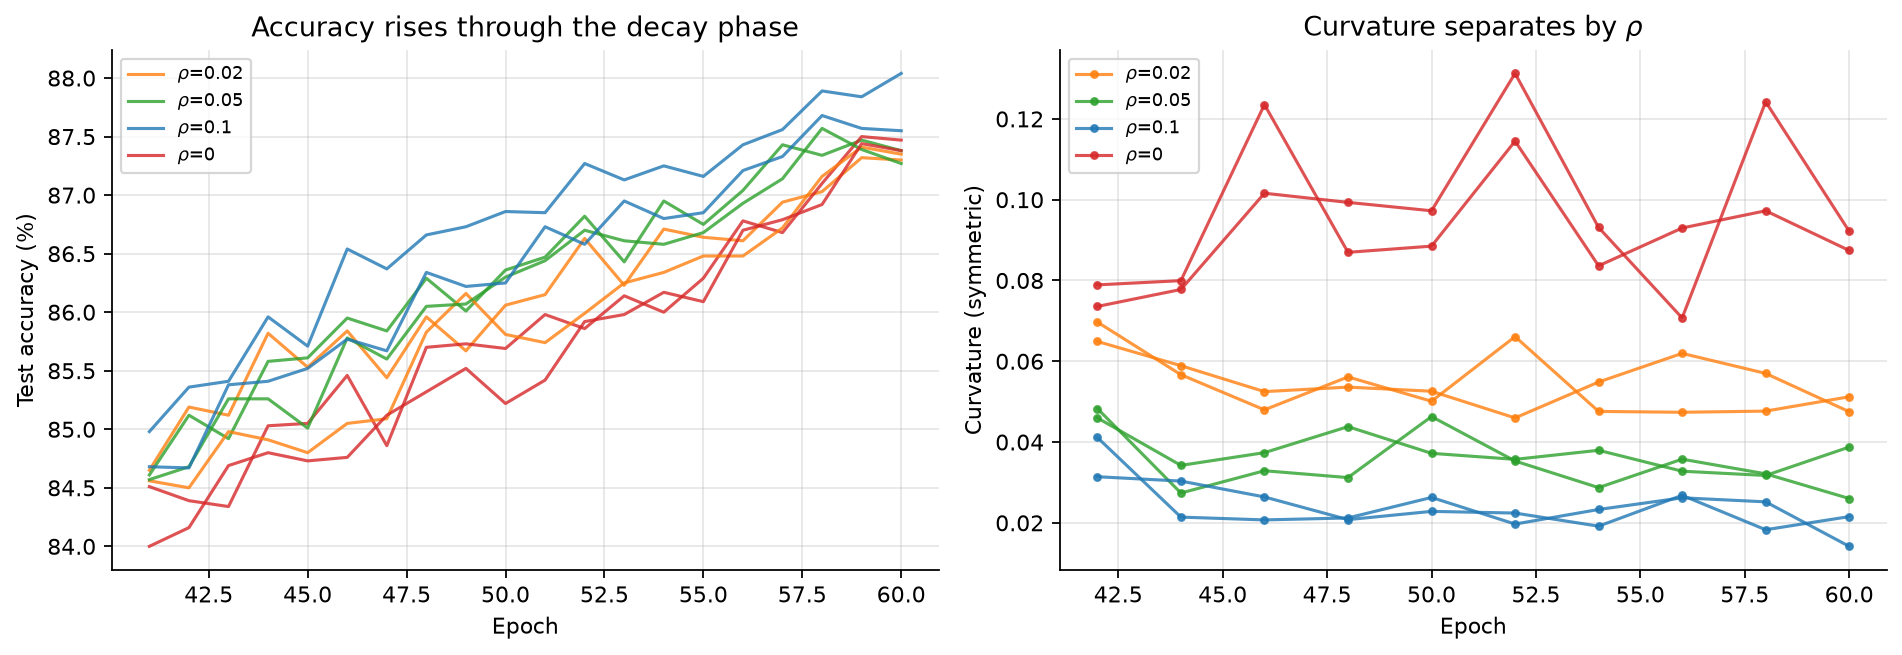
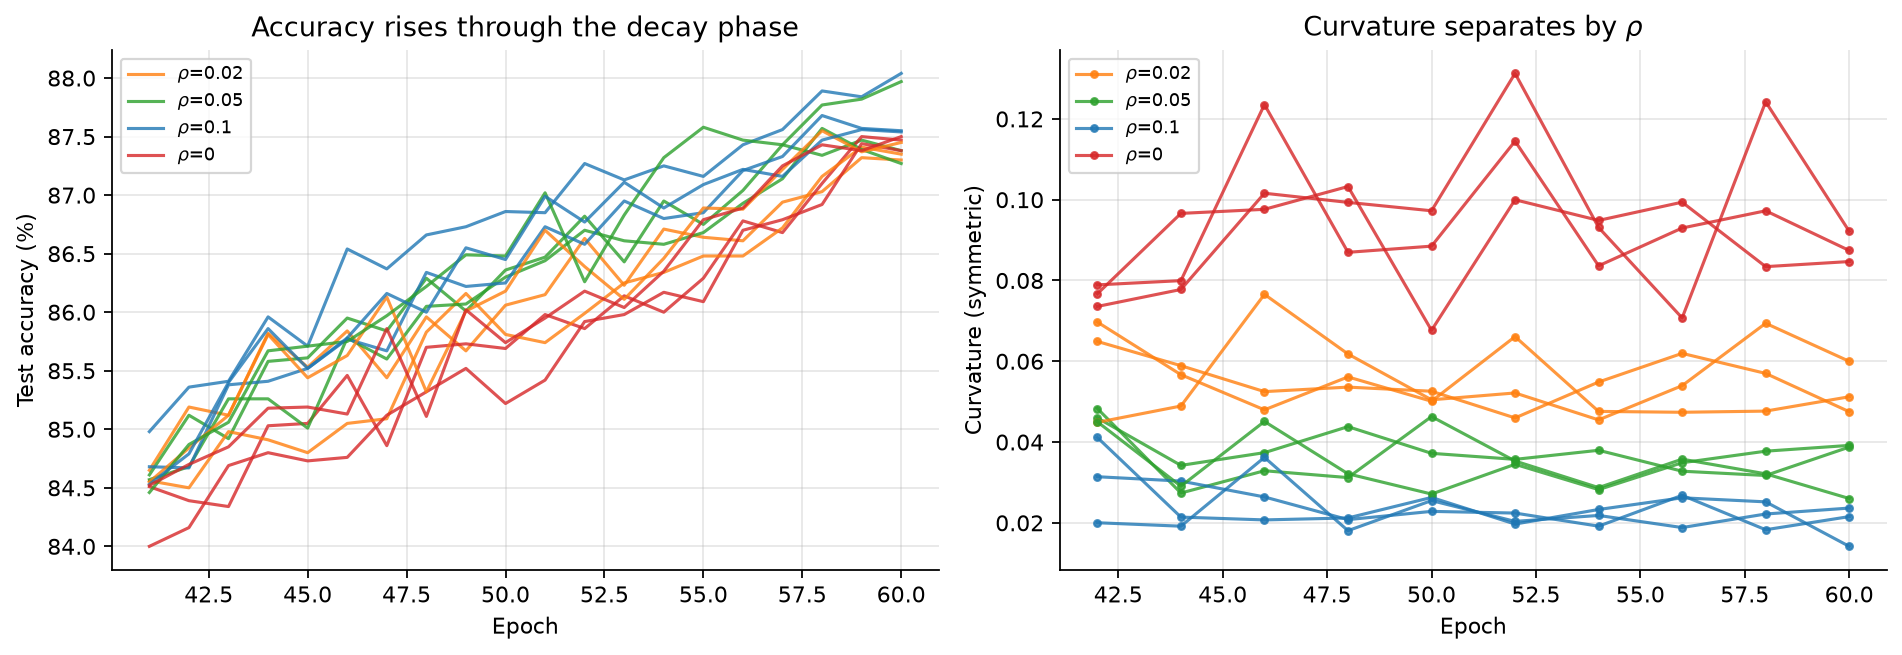
[ADD] 3시드 결과 그림

diff --git a/scripts/make_figures.py b/scripts/make_figures.py
@@ -93,7 +93,7 @@ def fig_rho_sweep(rows, plt):
         return None
     n = len(by[rhos[0]]['sym'])
 
-    fig, ax = plt.subplots(1, 2, figsize=(11, 4.2))
+    fig, ax = plt.subplots(1, 3, figsize=(15, 4.2))
     ax[0].errorbar(rhos, [st.mean(by[r]['sym']) for r in rhos],
                    yerr=[sd(by[r]['sym']) for r in rhos],
                    marker='o', ms=7, capsize=5, lw=2, color='#7048b6')
@@ -107,6 +107,24 @@ def fig_rho_sweep(rows, plt):
     ax[1].set_xlabel('SAM radius  $\\rho$'); ax[1].set_ylabel('Test accuracy (%)')
     ax[1].set_title('Generalization — does it follow?')
     ax[1].grid(alpha=.3)
+
+    # (c) 같은 축에서 상대 변화로 비교한다.
+    # 왼쪽 두 패널은 축 범위가 달라 "곡률 4.5배 감소 vs 정확도 0.3% 변화" 라는
+    # 크기 차이가 보이지 않는다. sam_off 기준 % 변화로 겹쳐 그리면 그게 드러난다.
+    base_s, base_a = st.mean(by[0.0]['sym']), st.mean(by[0.0]['acc'])
+    rel_s = [(st.mean(by[r]['sym']) / base_s - 1) * 100 for r in rhos]
+    rel_a = [(st.mean(by[r]['acc']) / base_a - 1) * 100 for r in rhos]
+    ax[2].plot(rhos, rel_s, 'o-', ms=7, lw=2, color='#7048b6', label='curvature')
+    ax[2].plot(rhos, rel_a, 's-', ms=7, lw=2, color='#1f77b4', label='test accuracy')
+    ax[2].axhline(0, color='k', lw=.8)
+    ax[2].set_xlabel('SAM radius  $\\rho$')
+    ax[2].set_ylabel('change vs $\\rho{=}0$  (%)')
+    ax[2].set_title('Same axis: the gap is the point')
+    ax[2].legend(fontsize=9); ax[2].grid(alpha=.3)
+    ax[2].annotate(f'{rel_s[-1]:+.0f}%', xy=(rhos[-1], rel_s[-1]), fontsize=10,
+                   color='#7048b6', xytext=(-38, 6), textcoords='offset points')
+    ax[2].annotate(f'{rel_a[-1]:+.2f}%', xy=(rhos[-1], rel_a[-1]), fontsize=10,
+                   color='#1f77b4', xytext=(-38, 8), textcoords='offset points')
 
     fig.suptitle(f'Decay-phase SAM: $\\rho$ sweep  (n={n} seed{"s" if n>1 else ""})',
                  fontsize=12)

diff --git a/docs/PROGRESS.md b/docs/PROGRESS.md
@@ -505,12 +505,17 @@ n=4 이고 서로 독립도 아니다.
 
 | 그림 | 내용 |
 |---|---|
-| `fig1_rho_sweep` | ★ 메인 — 곡률은 ρ 에 단조 감소, 정확도는 비단조 |
+| `fig1_rho_sweep` | ★ **발표 메인**. 3패널: 곡률↓ / 정확도 / **같은 축 상대변화** |
 | `fig2_decay_trajectories` | decay 구간에서 accuracy 는 오르고 곡률은 ρ 별로 갈린다 |
 | `fig3_metric_decomposition` | 단측 sharpness = 1차항(ρ‖g‖) + 곡률 분해 |
 | `fig4_detrended_correlation` | 겉보기 상관이 시간 추세임을 보이는 그림 |
 
 `fig3` 은 `pg` 로그가 들어간 seed 43~46 부터 생성된다.
+
+**fig1 의 3번째 패널이 핵심이다.** 1·2번 패널은 축 범위가 달라
+"곡률이 4.5배 줄 때 정확도는 0.3 %p 움직인다"는 크기 차이가 보이지 않는다.
+sam_off 기준 % 변화로 겹쳐 그리면 3시드에서 **곡률 −78 % vs 정확도 +0.30 %** 로
+격차가 그대로 드러난다. 이 한 장이 프로젝트의 발견을 요약한다.
 
 ---
 
@@ -586,3 +591,60 @@ keep-alive 가 죽었으므로 Colab 의 유휴 회수를 기다려야 한다.
 3. 안전장치 자체를 검증하지 않아 안전장치가 동작하지 않았다
 
 → 코드를 바꾸면 **반드시 스모크부터**. 안전장치도 코드다.
+
+### 12.9 3시드 중간 결과 (seed 42·43·44)
+
+| ρ | acc 평균 ±sd | 곡률(sym) 평균 ±sd |
+|---|---|---|
+| 0.00 (off) | 87.45 ± 0.06 | 0.0881 ± 0.0038 |
+| 0.02 | 87.37 ± 0.08 | 0.0529 ± 0.0064 |
+| 0.05 | 87.54 ± 0.38 | 0.0346 ± 0.0075 |
+| **0.10** | **87.71 ± 0.29** | **0.0198 ± 0.0050** |
+
+**sam_off 대비 paired 비교**
+
+| ρ | 곡률 감소 | 정확도 증가 | Δacc |
+|---|---|---|---|
+| 0.02 | **3/3** | 0/3 | −0.08 ± 0.08 %p |
+| 0.05 | **3/3** | 1/3 | +0.09 ± 0.33 %p |
+| **0.10** | **3/3** | **3/3** | **+0.26 ± 0.28 %p** |
+
+**세 가지가 읽힌다.**
+
+**1. 곡률 감소는 이미 확정적이다.** 모든 ρ 에서 3/3, 평균이 ρ 에 대해 완벽하게 단조
+(0.0881 → 0.0529 → 0.0346 → 0.0198), 표준편차도 작다(0.004~0.007).
+5시드를 채우면 부호검정 p=0.031 이 나올 것이 사실상 확실하다.
+
+**2. 정확도는 ρ 에 대해 비단조다.** 이게 예상 밖이다.
+작은 ρ(0.02)는 오히려 약간 나쁘고(0/3, −0.08 %p), 큰 ρ(0.10)에서 **3/3 개선**된다.
+즉 "SAM 을 조금 켜면 손해, 많이 켜면 이득"이라는 형태다.
+
+**3. ρ=0.10 이 3/3 로 sam_off 를 이긴다** (p=0.125, 아직 유의하지 않음).
+5시드에서 5/5 가 유지되면 p=0.031 로 유의해진다. 이 경우 §10 의
+"결과가 뒤집히면" 시나리오가 실현된다 —
+*"decay 구간에만 SAM 을 켜면 전 구간 SAM 의 절반 비용으로 이득을 얻는다."*
+
+**주의**: ρ=0.05 의 정확도 sd 가 0.38 로 유독 크다(다른 조건의 4~6배).
+seed 44 에서 87.97 % 가 튀었는데, 시드가 더 쌓여야 실제 분산인지 이상치인지 갈린다.
+
+### 12.10 Colab 세션 패턴 — 시드 하나당 세션 하나
+
+실행하며 관찰한 규칙성이다.
+
+```
+세션 1 (wsd)        seed 42 완주 → 소실
+세션 2 (wsd2)       seed 43 완주 → 소실
+세션 3 (wsd_night)  seed 44 완주 → 소실
+```
+
+**약 80분(시드 1개)을 돌리면 세션이 404/401 로 회수된다.** 무료 티어의 연속
+GPU 사용 한도로 보인다. 소실된 VM 이 고아로 남아 `TooManyAssignmentsError` 로
+새 할당을 잠시 막지만, 5~20분이면 풀린다.
+
+→ **설계에 반영**: `scripts/overnight_grid.sh` 가 시드 단위로 쪼개 실행하고,
+세션이 죽으면 다시 얻어 같은 시드를 재시도한다. 끝난 시드는 로그 줄 수로 판정해
+건너뛴다. 이 구조 덕에 세션이 반복적으로 죽어도 그리드가 진행된다.
+
+이 제약은 **Phase 2(ViT) 계획에도 영향**을 준다. Stage P 사전학습 36분 +
+시드당 30분이면 세션 하나에 겨우 들어가므로, 사전학습 체크포인트를 반드시
+회수해 다음 세션에서 재사용해야 한다.
